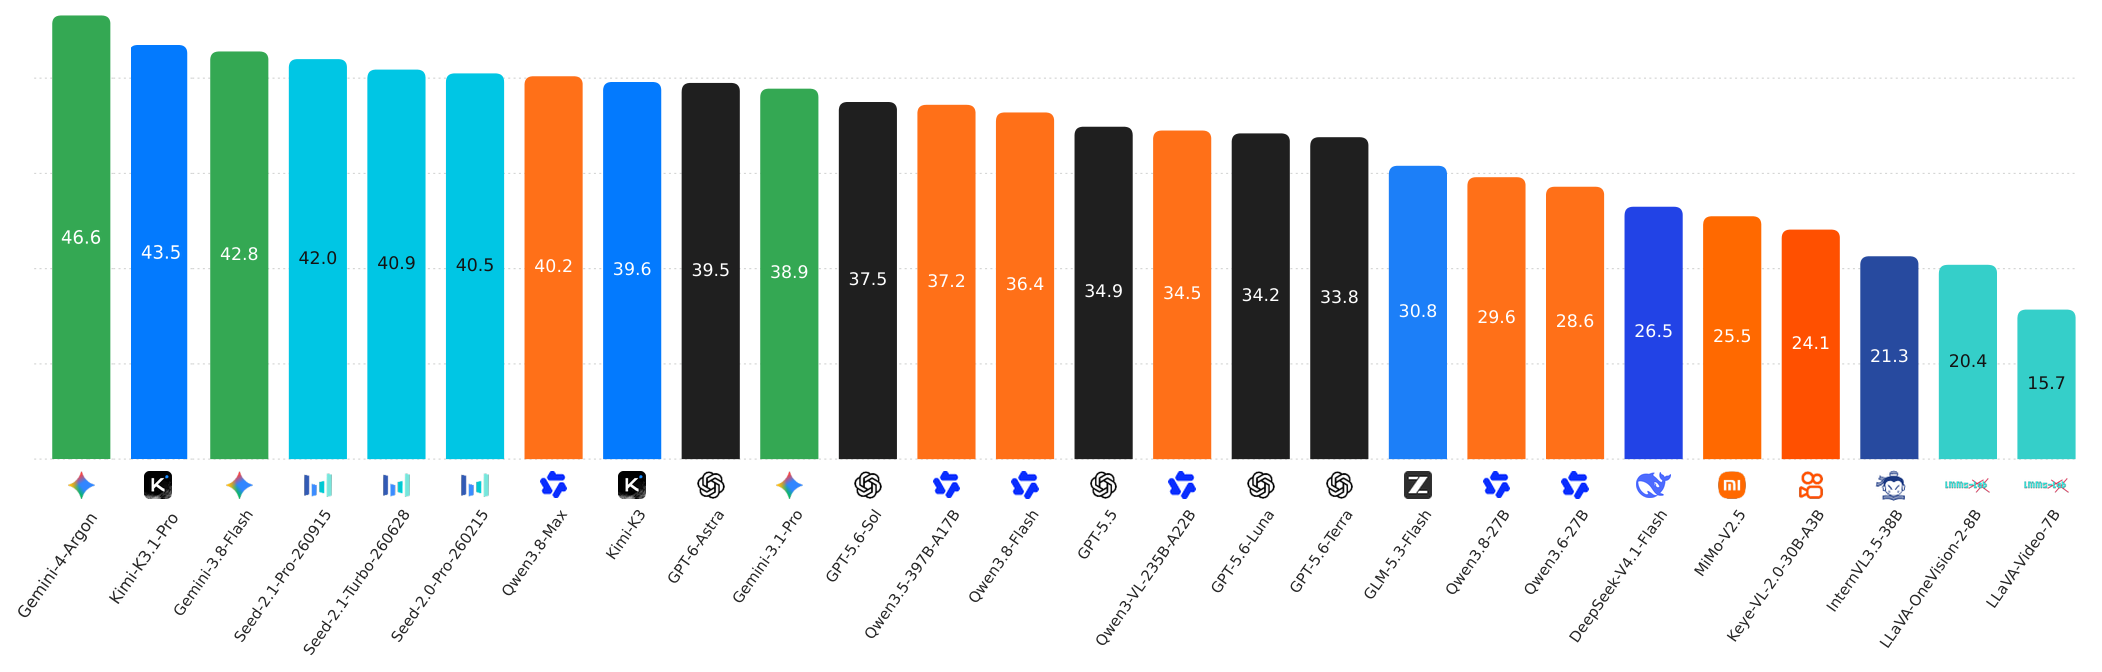
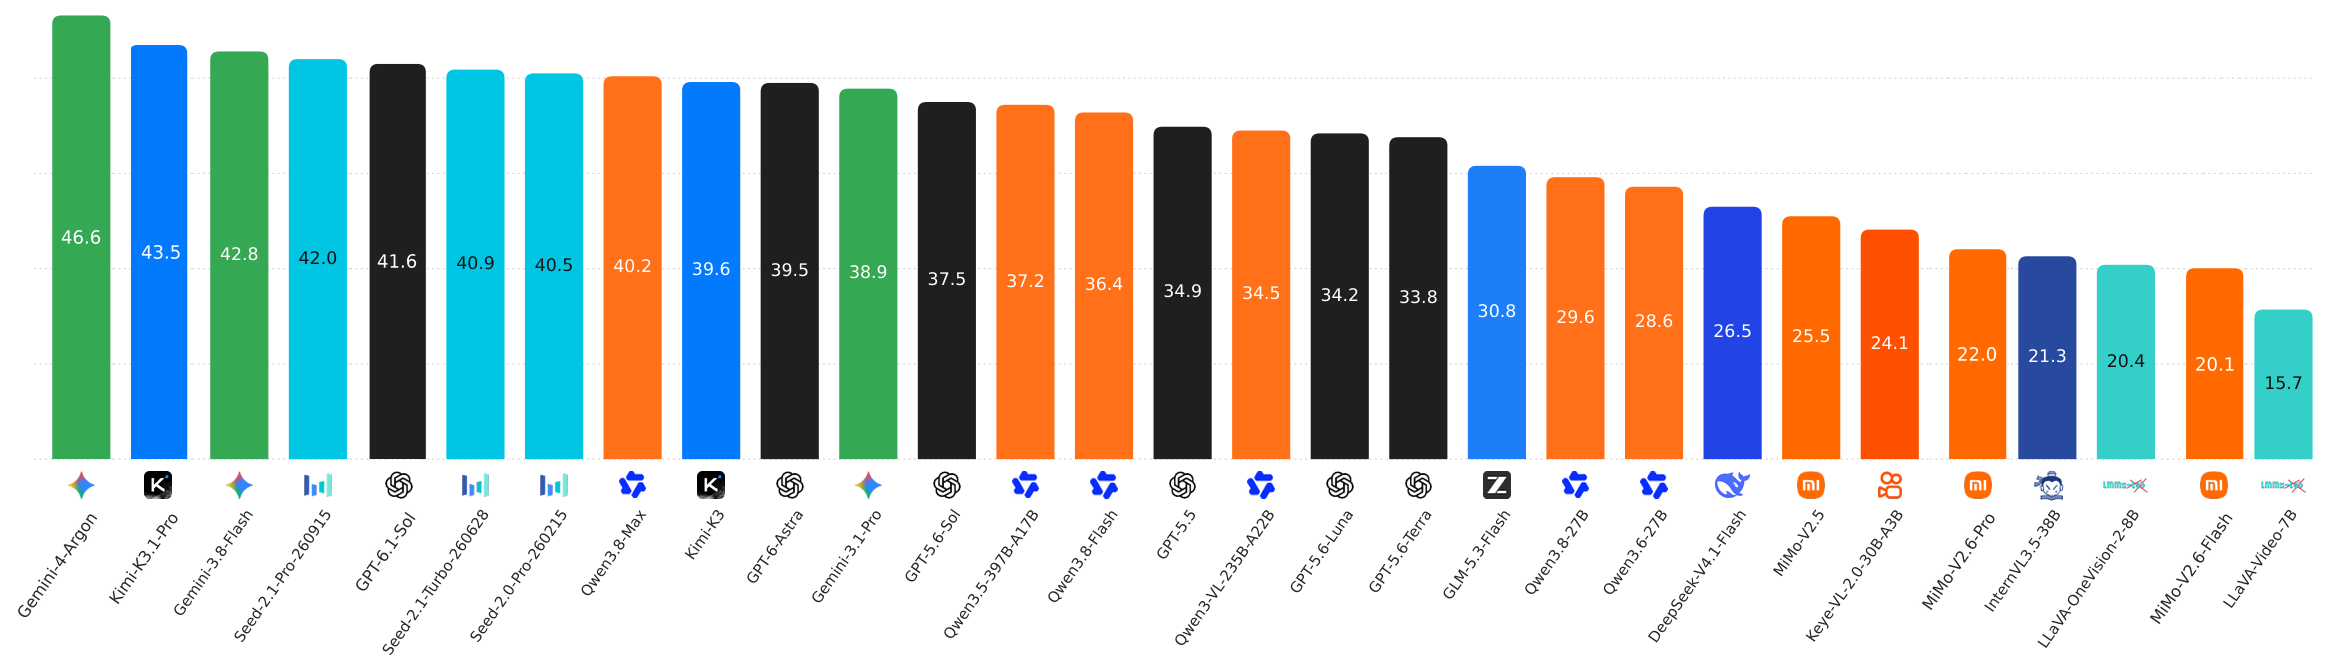
Update Sol and MiMo Index and describe 50+ MLLMs

diff --git a/README.md b/README.md
@@ -38,7 +38,7 @@ Lei Zhang<sup>1,2</sup>
   <img src="assets/index.png" width="1000" alt="Overall model performance on OmniCompass-VL">
 </p>
 
-OmniCompass is a holistic benchmark for omni-modal video grounding and understanding, comprising **820 videos** and built with approximately **1,800 human annotation hours**. It covers **2 target specifications** (Text and Text+Image), **2 complementary evaluation tracks** (OmniCompass-VL and OmniCompass-AV), **3 core tasks** (temporal grounding, spatial grounding, and question answering), and **3 video duration categories** (short, medium, and long). We evaluate **50 MLLMs** on both task performance and cross-specification consistency.
+OmniCompass is a holistic benchmark for omni-modal video grounding and understanding, comprising **820 videos** and built with approximately **1,800 human annotation hours**. It covers **2 target specifications** (Text and Text+Image), **2 complementary evaluation tracks** (OmniCompass-VL and OmniCompass-AV), **3 core tasks** (temporal grounding, spatial grounding, and question answering), and **3 video duration categories** (short, medium, and long). We evaluate **50+ MLLMs** on both task performance and cross-specification consistency.
 
 ## 📝 Content
 

diff --git a/README_zh-CN.md b/README_zh-CN.md
@@ -38,7 +38,7 @@ Lei Zhang<sup>1,2</sup>
   <img src="assets/index.png" width="1000" alt="各模型在 OmniCompass-VL 上的整体表现">
 </p>
 
-OmniCompass 是一个面向全模态视频定位与理解的综合评测基准，包含 **820 个视频**，投入约 **1,800 人工标注小时**。基准覆盖 **2 种目标指代**（纯文本、文本+图像）、**2 条互补评测轨道**（OmniCompass-VL 和 OmniCompass-AV）、**3 项核心任务**（时间定位、空间定位、视频问答）和 **3 类视频时长**（短视频、中视频、长视频），并评测 **50 个 MLLMs** 的任务表现与跨指代一致性。
+OmniCompass 是一个面向全模态视频定位与理解的综合评测基准，包含 **820 个视频**，投入约 **1,800 人工标注小时**。基准覆盖 **2 种目标指代**（纯文本、文本+图像）、**2 条互补评测轨道**（OmniCompass-VL 和 OmniCompass-AV）、**3 项核心任务**（时间定位、空间定位、视频问答）和 **3 类视频时长**（短视频、中视频、长视频），并评测 **50+ 个多模态大模型** 的任务表现与跨指代一致性。
 
 ## 📝 目录
 
